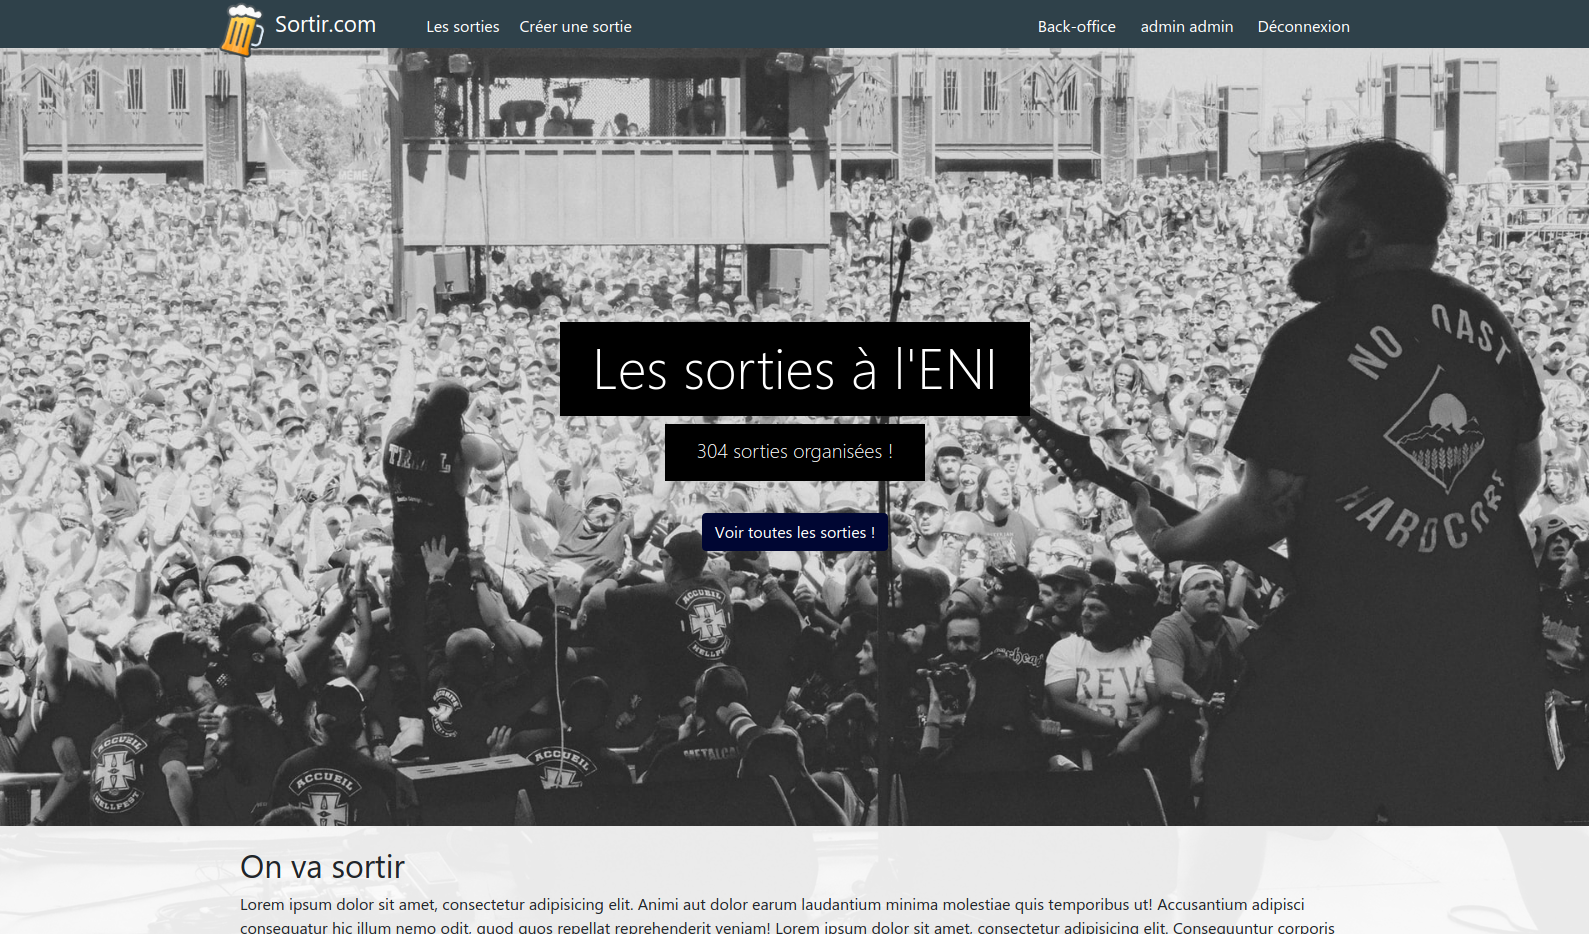
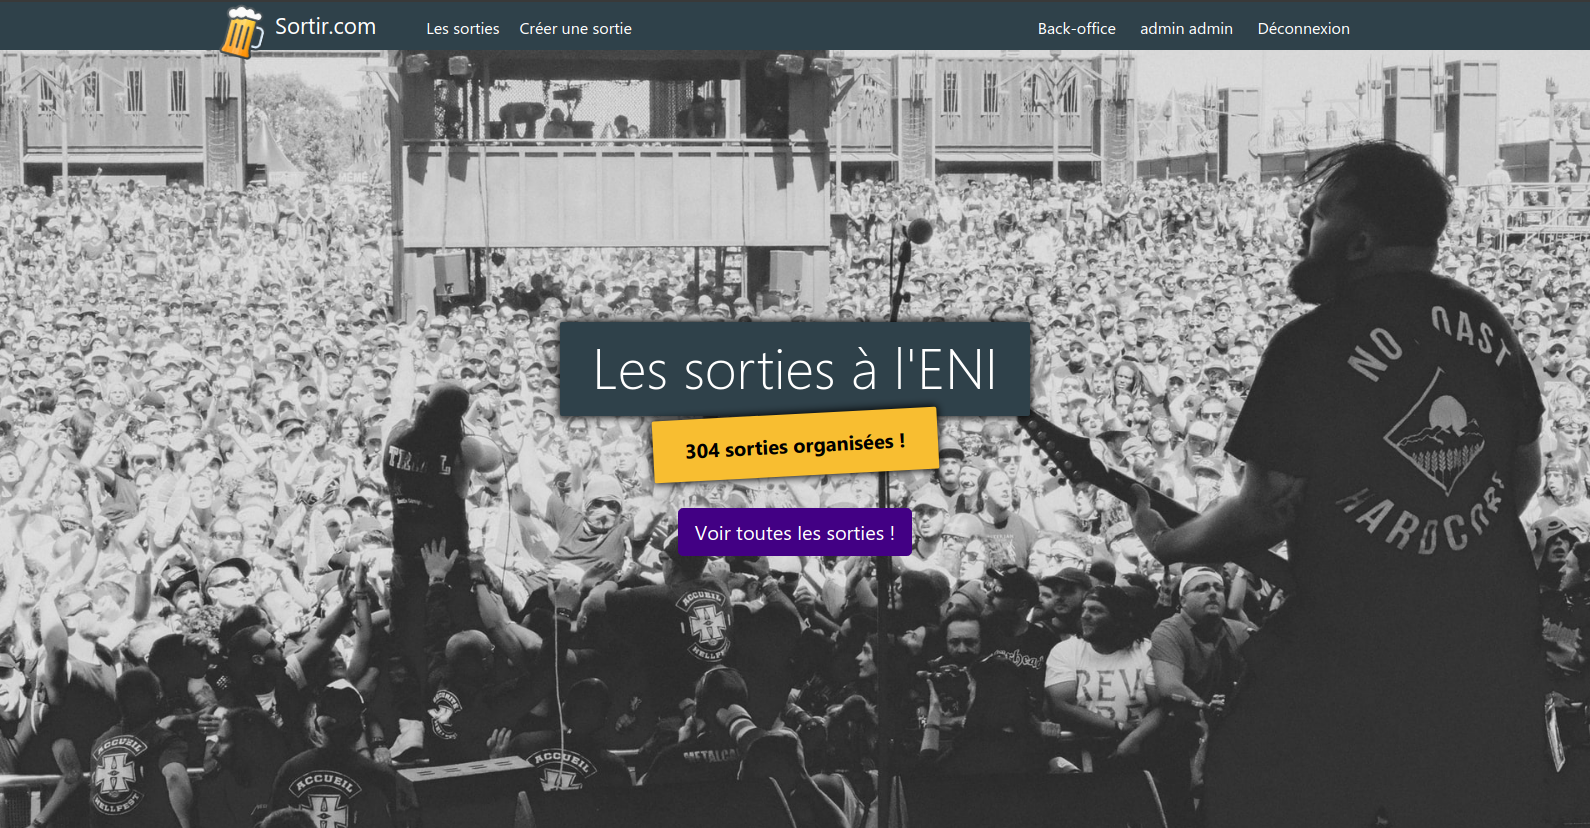
prettier home

diff --git a/public/css/app.css b/public/css/app.css
@@ -93,12 +93,27 @@ footer:hover .footer-logo {
 
 .home-hero h1,
 .home-hero p {
-    background-color: black;
+    background-color: #2F414A;
     color: #fff;
     display: inline-block;
-    padding: 0.7rem 2rem 1rem 2rem;
+    padding: 1rem 2rem;
     -webkit-box-decoration-break: clone;
     box-decoration-break: clone;
+    -webkit-box-shadow: 0px 0px 8px 1px #000000;
+    box-shadow: 0px 0px 8px 1px #000000;
+    border-radius: 2px;
+}
+
+.home-hero h1 {
+    padding: 0.7rem 2rem 1rem 2rem;
+}
+
+.home-hero p {
+    background-color: #F8BE31;
+    color: black;
+    font-weight: bold;
+    transform: rotate(-3deg);
+    margin-top: -10px;
 }
 
 .hero-content {
